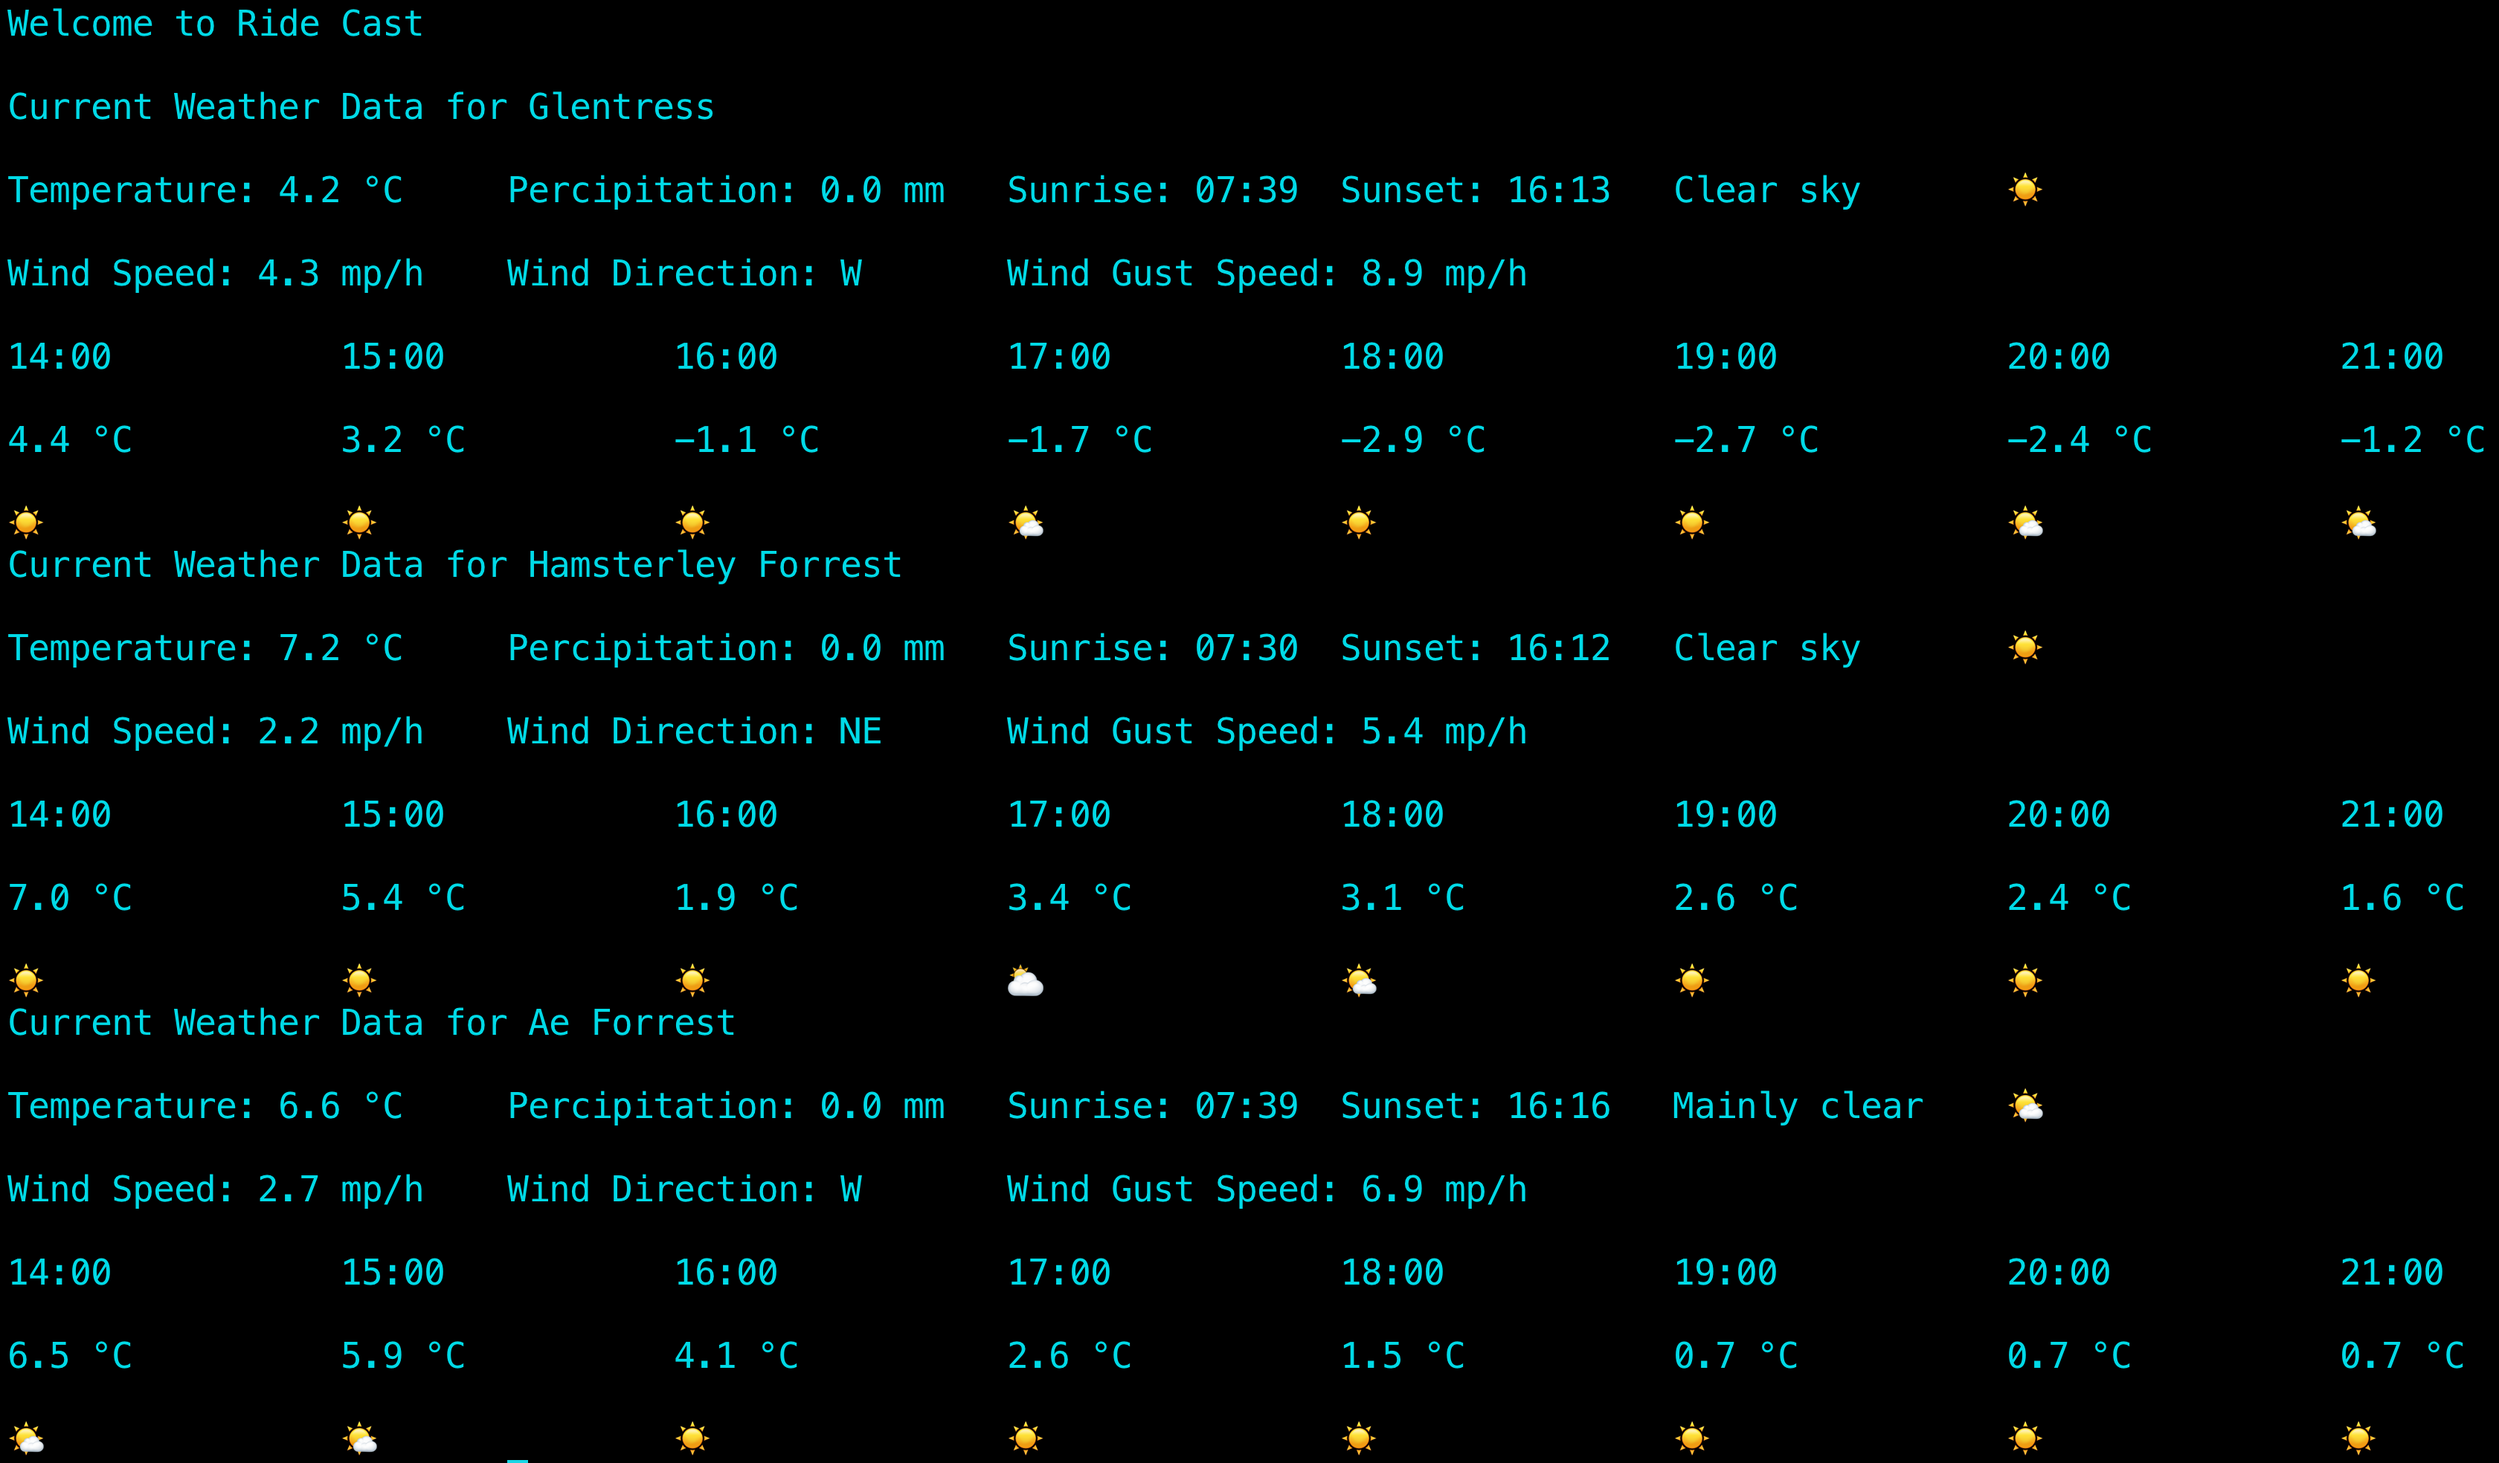
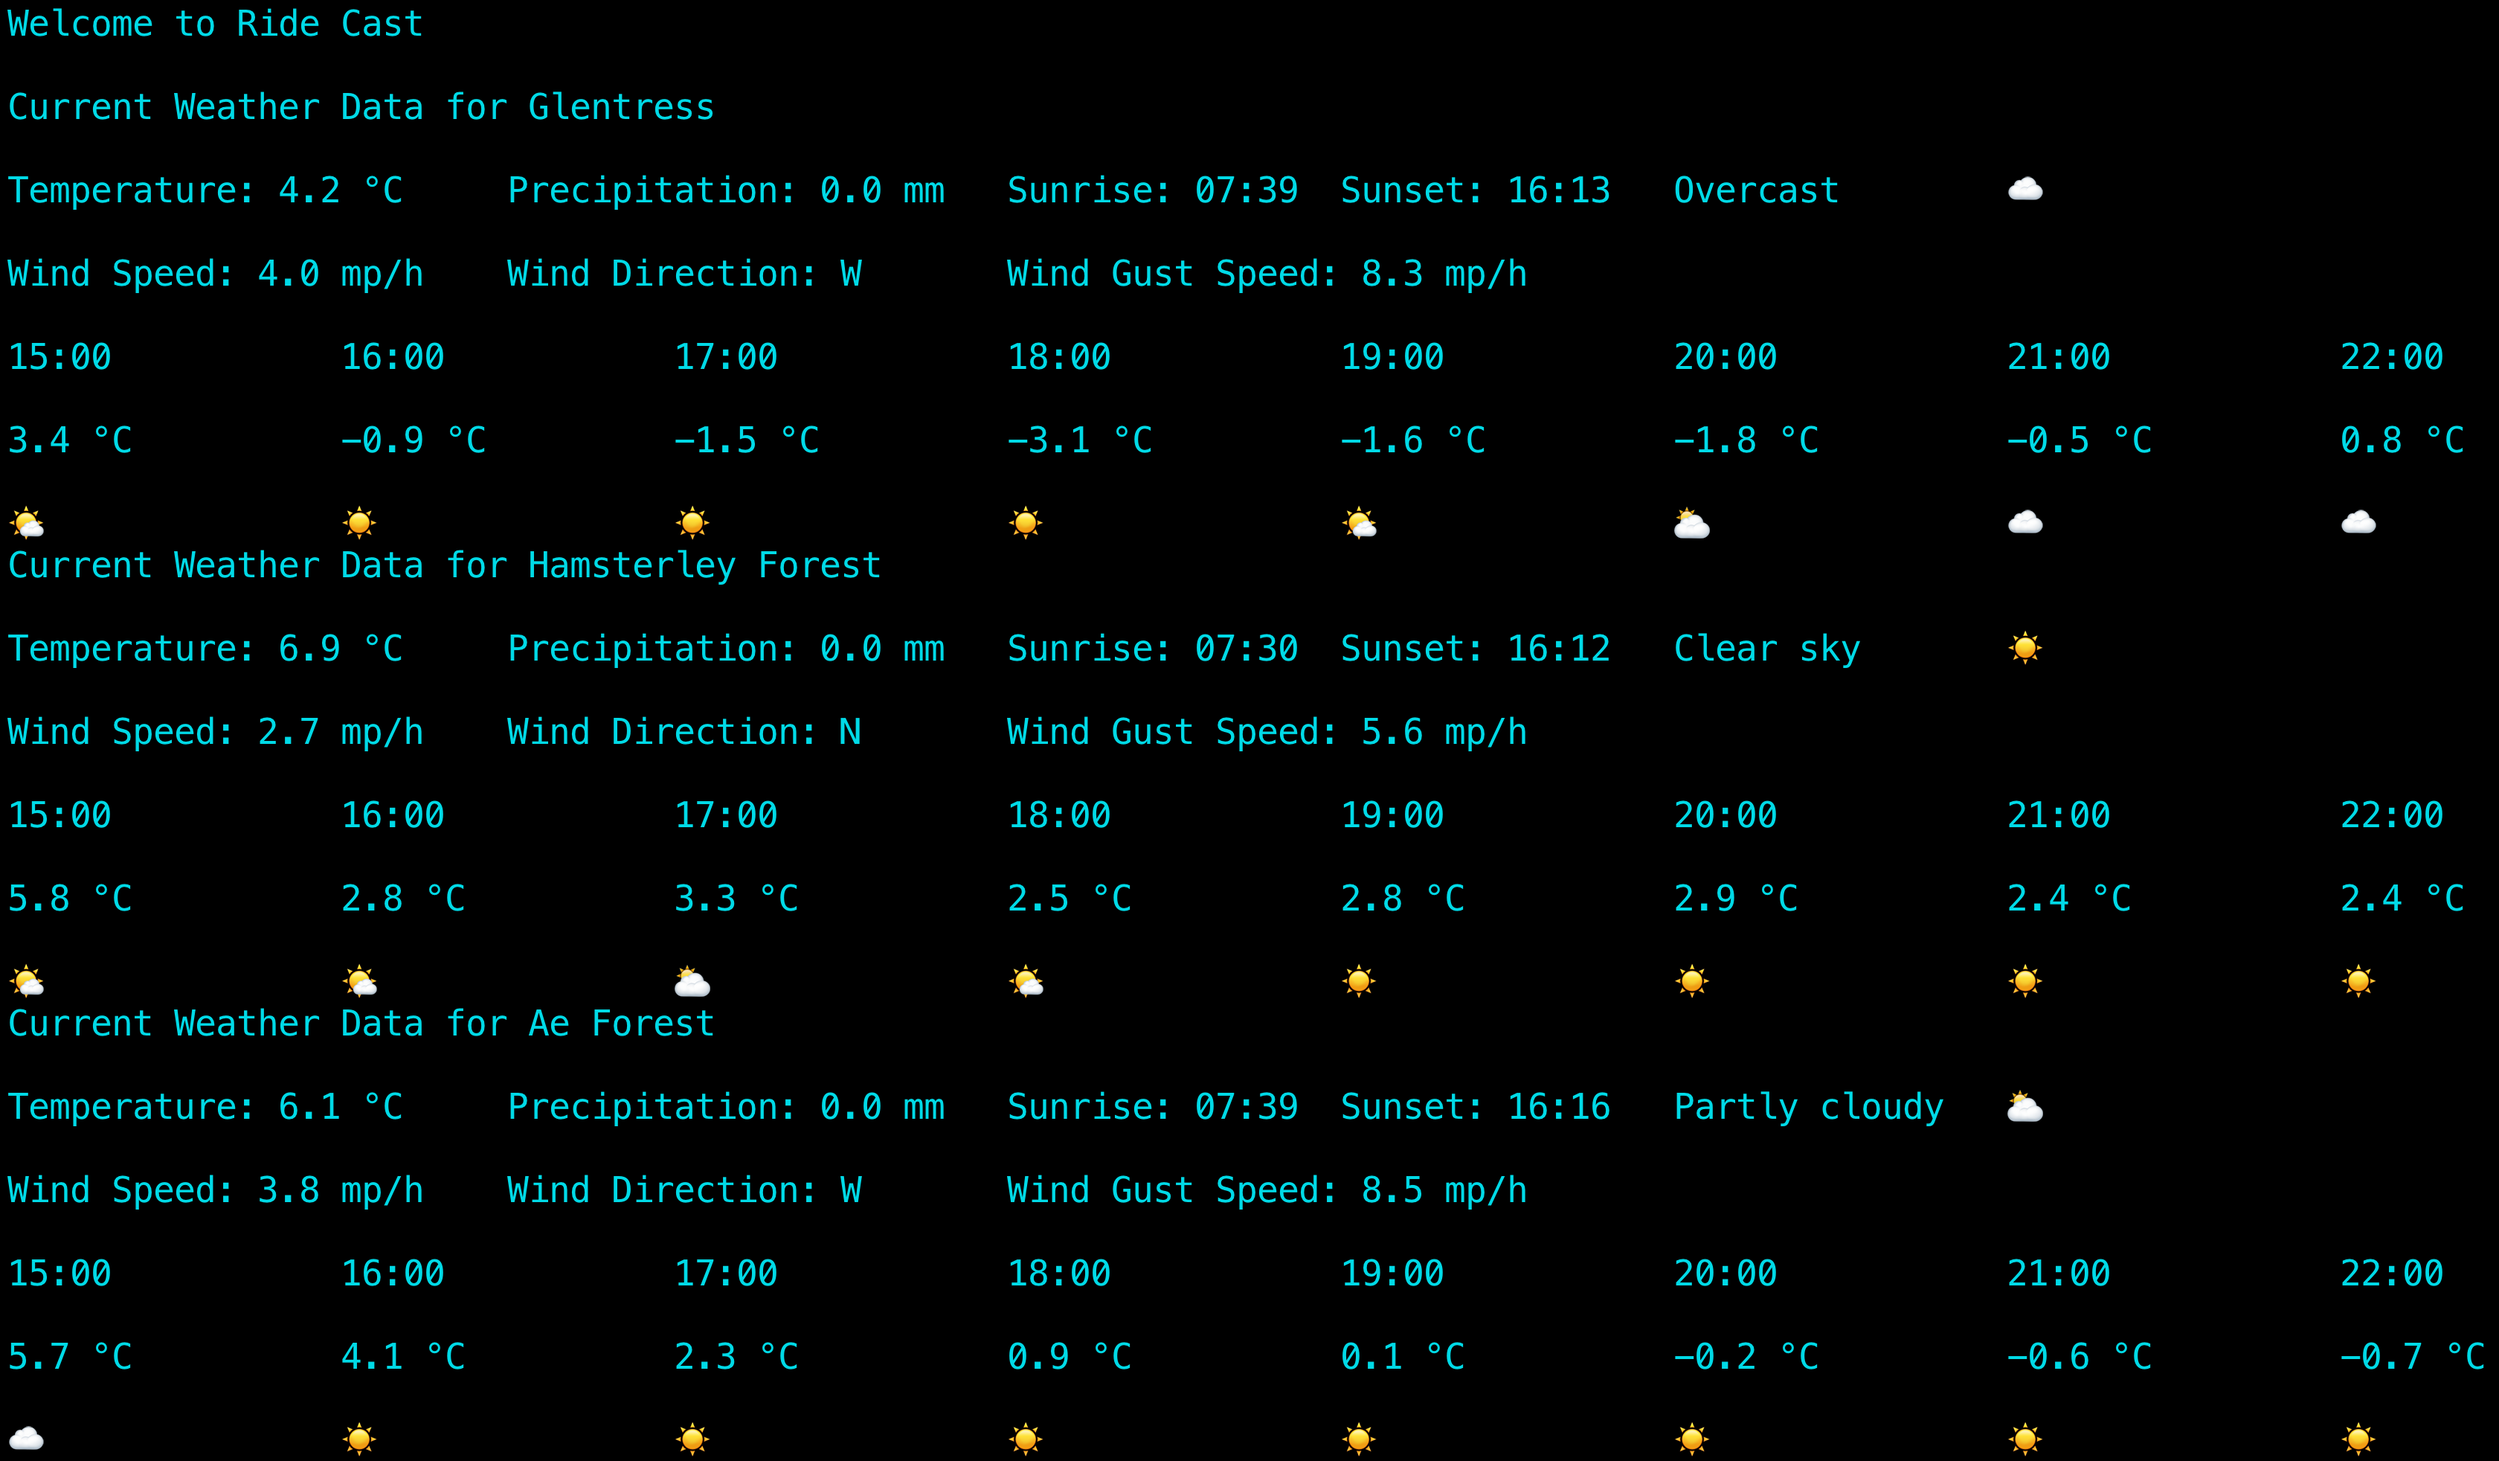
added readme and changed screenshot

diff --git a/README.md b/README.md
@@ -1,0 +1,29 @@
+# Ride Cast
+
+A command-line app that compares the weather at three mountain bike parks side by side, so you can choose where to ride. Pick three parks from the list and it shows the current conditions at each, plus an hour-by-hour forecast for the next eight hours.
+
+![Ride Cast comparing three bike parks](screenshot.png)
+
+## Why I built it
+
+Before a ride I'm always checking the weather in three different areas to decide where to go. I also wanted to build something that used a real API, so I made an app that does that comparison for me on one screen. With my recent projects I've tried to take things further and in different directions, and this was my first project working with live data from an API.
+
+## Features
+
+- Choose any three of seven bike parks in the UK and the Alps:
+  Glentress, Hamsterley Forest, Ae Forest, Fort William, Bike Park Wales, Revolution Bike Park and Morzine
+- Current conditions for each park: temperature, precipitation, wind speed, wind gusts, wind direction, sunrise and sunset
+- A plain-English description of the weather with a matching emoji (for example "Partly cloudy ⛅")
+- Wind direction shown as a compass point (N, NE, E…) instead of degrees
+- Hourly temperature and weather emoji for the next eight hours
+- Checks each menu choice, so anything that isn't on the list asks again
+
+## How it developed
+
+I built it up in stages, adding one idea at a time:
+
+1. **Calling the API.** I started by calling the [Open-Meteo](https://open-meteo.com/) API for one set of coordinates to see what data came back.
+2. **Current conditions.** I picked out the useful values and displayed the current weather for that location.
+3. **More bike parks.** I stored the coordinates of several bike parks in a dictionary and showed three locations on the same screen to compare.
+4. **Weather descriptions.** I noticed the API returns a weather code, so I created a dictionary that matches each code to a description.
+5. **Weather emojis.** I added a second
